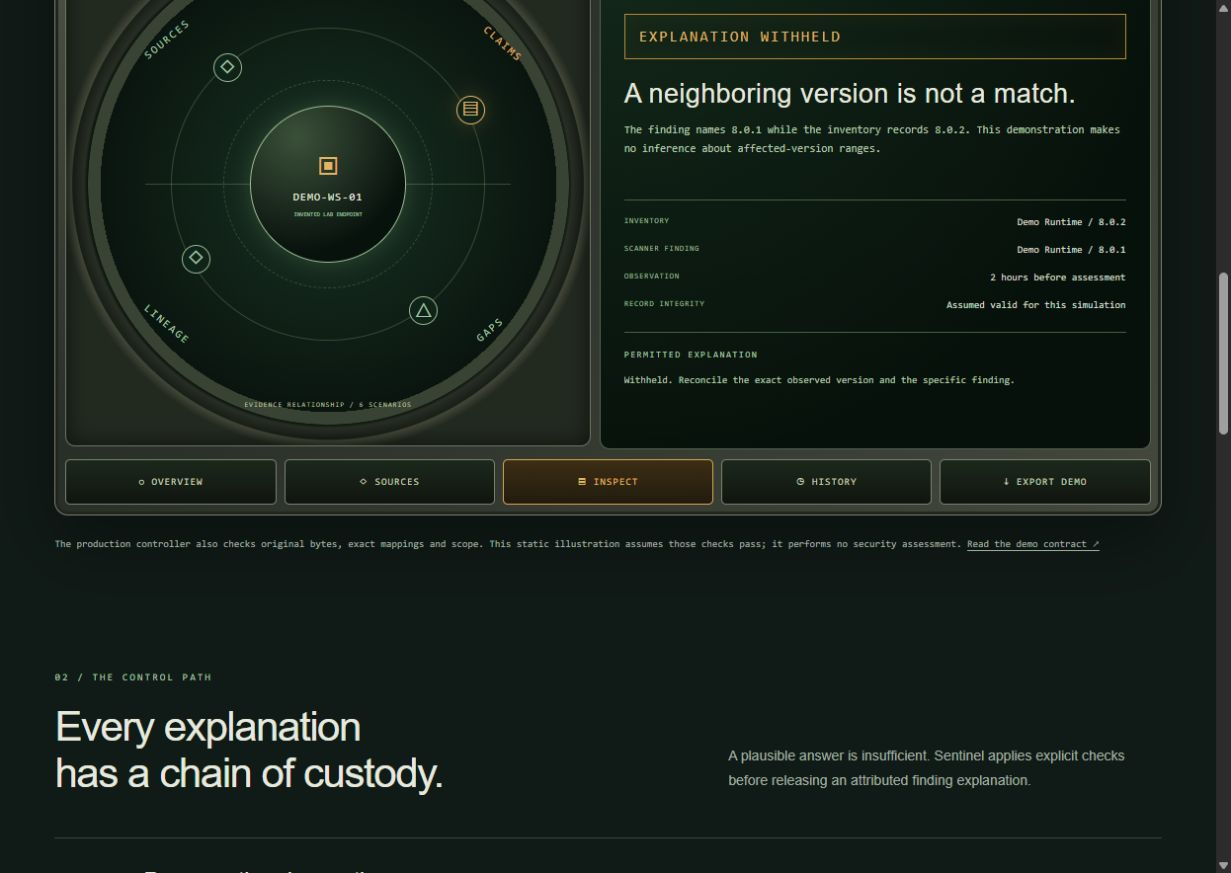
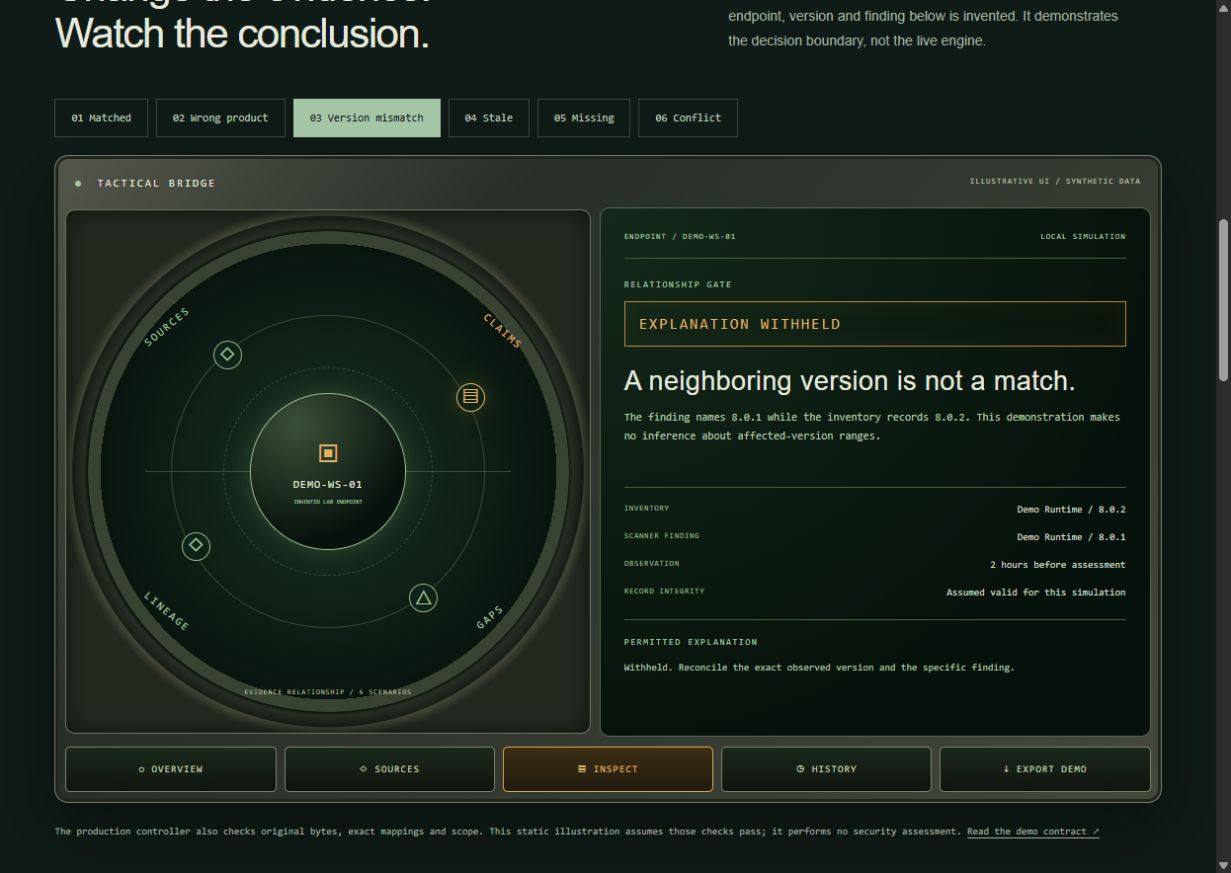
Refine public preview and configure branch-based Pages publishing

diff --git a/index.html b/index.html
@@ -17,11 +17,11 @@
     <div class="statement-strip"><p>Models propose.</p><p>Controllers verify.</p><p>Operators decide.</p><span>NO AUTONOMOUS REMEDIATION</span></div>
     <section id="bridge" class="bridge-section" aria-labelledby="bridge-title"><div class="section-heading"><div><p class="eyebrow">01 / INTERACTIVE FIELD GUIDE</p><h2 id="bridge-title">Change the evidence.<br>Watch the conclusion.</h2></div><p>This illustrative bridge runs entirely in your browser. Every endpoint, version and finding below is invented. It demonstrates the decision boundary, not the live engine.</p></div>
       <div class="scenario-controls" role="group" aria-label="Select synthetic evidence scenario"><button data-scenario="matched" aria-pressed="true">01 Matched</button><button data-scenario="product" aria-pressed="false">02 Wrong product</button><button data-scenario="version" aria-pressed="false">03 Version mismatch</button><button data-scenario="stale" aria-pressed="false">04 Stale</button><button data-scenario="missing" aria-pressed="false">05 Missing</button><button data-scenario="conflict" aria-pressed="false">06 Conflict</button></div>
-      <div class="bridge-console"><div class="console-bar"><span><span class="status-dot"></span> TACTICAL BRIDGE</span><span>ILLUSTRATIVE UI / SYNTHETIC DATA</span></div><div class="console-body"><div class="evidence-dial"><div class="dial-track"></div><span class="dial-tag dt1">SOURCES</span><span class="dial-tag dt2">CLAIMS</span><span class="dial-tag dt3">LINEAGE</span><span class="dial-tag dt4">GAPS</span><div class="dial-orbit o1"></div><div class="dial-orbit o2"></div><div class="dial-cross"></div><span class="evidence-node n1">◇</span><span class="evidence-node n2">▤</span><span class="evidence-node n3">△</span><span class="evidence-node n4">◇</span><div class="endpoint-core"><span class="endpoint-icon">▣</span><strong>DEMO-WS-01</strong><small>INVENTED LAB ENDPOINT</small></div><span class="dial-caption">EVIDENCE RELATIONSHIP / 6 SCENARIOS</span></div><div class="assessment" aria-live="polite" aria-atomic="true"><div class="assessment-head"><span>ENDPOINT / DEMO-WS-01</span><span>LOCAL SIMULATION</span></div><p class="panel-label">RELATIONSHIP GATE</p><div id="decision" class="decision">EXPLANATION RELEASED</div><h3 id="conclusion">The records agree.</h3><p id="reason" class="reason">The invented inventory and finding identify the same endpoint, product and version, within the demonstration's freshness window.</p><div class="evidence-table"><div><span>INVENTORY</span><strong id="inventory">Demo Runtime / 8.0.1</strong></div><div><span>SCANNER FINDING</span><strong id="finding">Demo Runtime / 8.0.1</strong></div><div><span>OBSERVATION</span><strong id="observation">2 hours before assessment</strong></div><div><span>RECORD INTEGRITY</span><strong id="integrity">Assumed valid for this simulation</strong></div></div><div class="release-box"><p class="panel-label">PERMITTED EXPLANATION</p><p id="release">The demo scanner reports a finding for Demo Runtime 8.0.1 on DEMO-WS-01. The paired inventory supports that relationship. Exploitability and compromise are not established.</p></div></div></div><div class="console-bottom"><span>○ OVERVIEW</span><span>◇ SOURCES</span><span class="selected">▤ INSPECT</span><span>◷ HISTORY</span><button id="export-demo">↓ EXPORT DEMO</button></div></div><p class="demo-caption">The production controller also checks original bytes, exact mappings and scope. This static illustration assumes those checks pass; it performs no security assessment. <a href="docs/DEMONSTRATION.md">Read the demo contract ↗</a></p>
+      <div class="bridge-console"><div class="console-bar"><span><span class="status-dot"></span> TACTICAL BRIDGE</span><span>ILLUSTRATIVE UI / SYNTHETIC DATA</span></div><div class="console-body"><div class="evidence-dial"><div class="dial-track"></div><span class="dial-tag dt1">SOURCES</span><span class="dial-tag dt2">CLAIMS</span><span class="dial-tag dt3">LINEAGE</span><span class="dial-tag dt4">GAPS</span><div class="dial-orbit o1"></div><div class="dial-orbit o2"></div><div class="dial-cross"></div><span class="evidence-node n1">◇</span><span class="evidence-node n2">▤</span><span class="evidence-node n3">△</span><span class="evidence-node n4">◇</span><div class="endpoint-core"><span class="endpoint-icon">▣</span><strong>DEMO-WS-01</strong><small>INVENTED LAB ENDPOINT</small></div><span class="dial-caption">EVIDENCE RELATIONSHIP / 6 SCENARIOS</span></div><div class="assessment" aria-live="polite" aria-atomic="true"><div class="assessment-head"><span>ENDPOINT / DEMO-WS-01</span><span>LOCAL SIMULATION</span></div><p class="panel-label">RELATIONSHIP GATE</p><div id="decision" class="decision">EXPLANATION RELEASED</div><h3 id="conclusion">The records agree.</h3><p id="reason" class="reason">The invented inventory and finding identify the same endpoint, product and version, within the demonstration's freshness window.</p><div class="evidence-table"><div><span>INVENTORY</span><strong id="inventory">Demo Runtime / 8.0.1</strong></div><div><span>SCANNER FINDING</span><strong id="finding">Demo Runtime / 8.0.1</strong></div><div><span>OBSERVATION</span><strong id="observation">2 hours before assessment</strong></div><div><span>RECORD INTEGRITY</span><strong id="integrity">Assumed valid for this simulation</strong></div></div><div class="release-box"><p class="panel-label">PERMITTED EXPLANATION</p><p id="release">The demo scanner reports a finding for Demo Runtime 8.0.1 on DEMO-WS-01. The paired inventory supports that relationship. Exploitability and compromise are not established.</p></div></div></div><div class="console-bottom"><span>○ OVERVIEW</span><span>◇ SOURCES</span><span class="selected">▤ INSPECT</span><span>◷ HISTORY</span><button id="export-demo">↓ EXPORT DEMO</button></div></div><p class="demo-caption">The production controller also checks original bytes, exact mappings and scope. This static illustration assumes those checks pass; it performs no security assessment. <a href="https://github.com/TBG-Chance/PZ-AI-Sentinel-showcase/blob/main/docs/DEMONSTRATION.md">Read the demo contract ↗</a></p>
     </section>
     <section id="method" class="method-section" aria-labelledby="method-title"><div class="section-heading"><div><p class="eyebrow">02 / THE CONTROL PATH</p><h2 id="method-title">Every explanation<br>has a chain of custody.</h2></div><p>A plausible answer is insufficient. Sentinel applies explicit checks before releasing an attributed finding explanation.</p></div><ol class="method-list"><li><span>01</span><div><h3>Preserve the observation</h3><p>Pr0jectZer0 supplies inventory and findings. MDF preserves records and their mapping history for scoped retrieval.</p></div><small>SOURCE</small></li><li><span>02</span><div><h3>Verify the original bytes</h3><p>Check retrieved raw evidence against recorded hashes and exact mappings, within the authorized source and tenant.</p></div><small>INTEGRITY</small></li><li><span>03</span><div><h3>Prove the relationship</h3><p>Reconcile endpoint identity, product, version, observation time and the specific finding. Withhold when the relationship fails.</p></div><small>BOUNDARY</small></li><li><span>04</span><div><h3>Retain the decision</h3><p>Persist the result, evidence references and audit checkpoint. Reopen the session and verify it again after restart.</p></div><small>TRACE</small></li></ol></section>
     <section class="operator-section"><p class="eyebrow">EXPLICIT ACTION / VISIBLE CONSEQUENCES</p><h2>An operator starts the run.<br>A saved session keeps the record.</h2><div class="operator-copy"><p>The configured <strong>Run Analysis</strong> action reports progress, supports cancellation and opens completed sessions. Local-model use is an explicit choice. The workflow analyzes preserved records; it does not automatically collect a new endpoint inventory.</p><p>Models work through typed controller boundaries. Remediation remains advisory; .NET guidance is attributed to Pr0jectZer0. The default execution path has no cloud dependency.</p></div></section>
-    <section id="research" class="research-section" aria-labelledby="research-title"><div class="section-heading"><div><p class="eyebrow">03 / RESEARCH, WITH ITS LIMITS</p><h2 id="research-title">A working gate.<br>An open accuracy question.</h2></div><p>The distinction matters: preventing an unsupported release does not prove that a model understood the evidence.</p></div><div class="research-ledger"><div><span class="ledger-label">BOUNDED PRODUCT PROFILES</span><h3>.NET · Python · Node.js</h3><p>Exact relationship checks within explicit product profiles. Broader semantic entailment remains outside this milestone.</p></div><div><span class="ledger-label">DEVELOPMENT EVIDENCE</span><h3>36 cases / 216 attempts</h3><p>Synthetic development cases across two endpoints, with two retained local-model configurations and three repetitions each. Labels are author-proposed.</p></div><div><span class="ledger-label">THE FAILURE WORTH SHOWING</span><h3>90 proposals blocked</h3><p>In the bounded-schema run, the model proposed support on all 108 attempts. The gate blocked all 90 negative cases under the proposed labels. This supports the bounded gate—not model accuracy.</p></div><div><span class="ledger-label">NEXT ACCEPTANCE GATE</span><h3>Independent review pending</h3><p>18 additional synthetic cases remain unrun, awaiting blinded human labels. The original 48-case corpus remains unchanged. No independently validated accuracy claim is made.</p></div></div><a class="text-link" href="docs/RESEARCH.md">Read the complete research status and counts ↗</a></section>
+    <section id="research" class="research-section" aria-labelledby="research-title"><div class="section-heading"><div><p class="eyebrow">03 / RESEARCH, WITH ITS LIMITS</p><h2 id="research-title">A working gate.<br>An open accuracy question.</h2></div><p>The distinction matters: preventing an unsupported release does not prove that a model understood the evidence.</p></div><div class="research-ledger"><div><span class="ledger-label">BOUNDED PRODUCT PROFILES</span><h3>.NET · Python · Node.js</h3><p>Exact relationship checks within explicit product profiles. Broader semantic entailment remains outside this milestone.</p></div><div><span class="ledger-label">DEVELOPMENT EVIDENCE</span><h3>36 cases / 216 attempts</h3><p>Synthetic development cases across two endpoints, with two retained local-model configurations and three repetitions each. Labels are author-proposed.</p></div><div><span class="ledger-label">THE FAILURE WORTH SHOWING</span><h3>90 proposals blocked</h3><p>In the bounded-schema run, the model proposed support on all 108 attempts. The gate blocked all 90 negative cases under the proposed labels. This supports the bounded gate—not model accuracy.</p></div><div><span class="ledger-label">NEXT ACCEPTANCE GATE</span><h3>Independent review pending</h3><p>18 additional synthetic cases remain unrun, awaiting blinded human labels. The original 48-case corpus remains unchanged. No independently validated accuracy claim is made.</p></div></div><a class="text-link" href="https://github.com/TBG-Chance/PZ-AI-Sentinel-showcase/blob/main/docs/RESEARCH.md">Read the complete research status and counts ↗</a></section>
     <section class="closing"><span class="brand-mark">PZ</span><h2>Inspect the evidence.<br>Keep the uncertainty.</h2><p>A public window into PZ-AI Sentinel’s design and current research.</p><a class="primary-link" href="https://github.com/TBG-Chance/PZ-AI-Sentinel-showcase">Explore the showcase repository <span>↗</span></a></section>
-  </main><footer><span>PZ-AI SENTINEL / PUBLIC SHOWCASE</span><span>DESIGN DEMONSTRATION · NO LIVE ENDPOINT ACCESS</span><a href="docs/STATUS.md">Capabilities & boundaries ↗</a></footer>
+  </main><footer><span>PZ-AI SENTINEL / PUBLIC SHOWCASE</span><span>DESIGN DEMONSTRATION · NO LIVE ENDPOINT ACCESS</span><a href="https://github.com/TBG-Chance/PZ-AI-Sentinel-showcase/blob/main/docs/STATUS.md">Capabilities & boundaries ↗</a></footer>
 </body></html>

diff --git a/README.md b/README.md
@@ -62,7 +62,9 @@ node --test tests/showcase.test.cjs
 
 ## GitHub Pages
 
-The included workflow publishes the static showcase from `main`. Repository administrators must select **GitHub Actions** under **Settings → Pages → Build and deployment → Source** if Pages has not already been enabled. The workflow runs artifact checks before deployment. The project can also be served by any static web host.
+The repository is configured for standard branch publishing: **Settings → Pages → Build and deployment → Deploy from a branch → main → / (root)**. Hosting availability depends on GitHub's account and deployment status. The project can also be served by any static web host.
+
+An optional manually triggered Actions workflow is included. To use it instead, select **GitHub Actions** as the Pages source, then run **Publish public showcase** from the Actions tab. That workflow runs artifact checks before deployment.
 
 ## Repository guide
 
